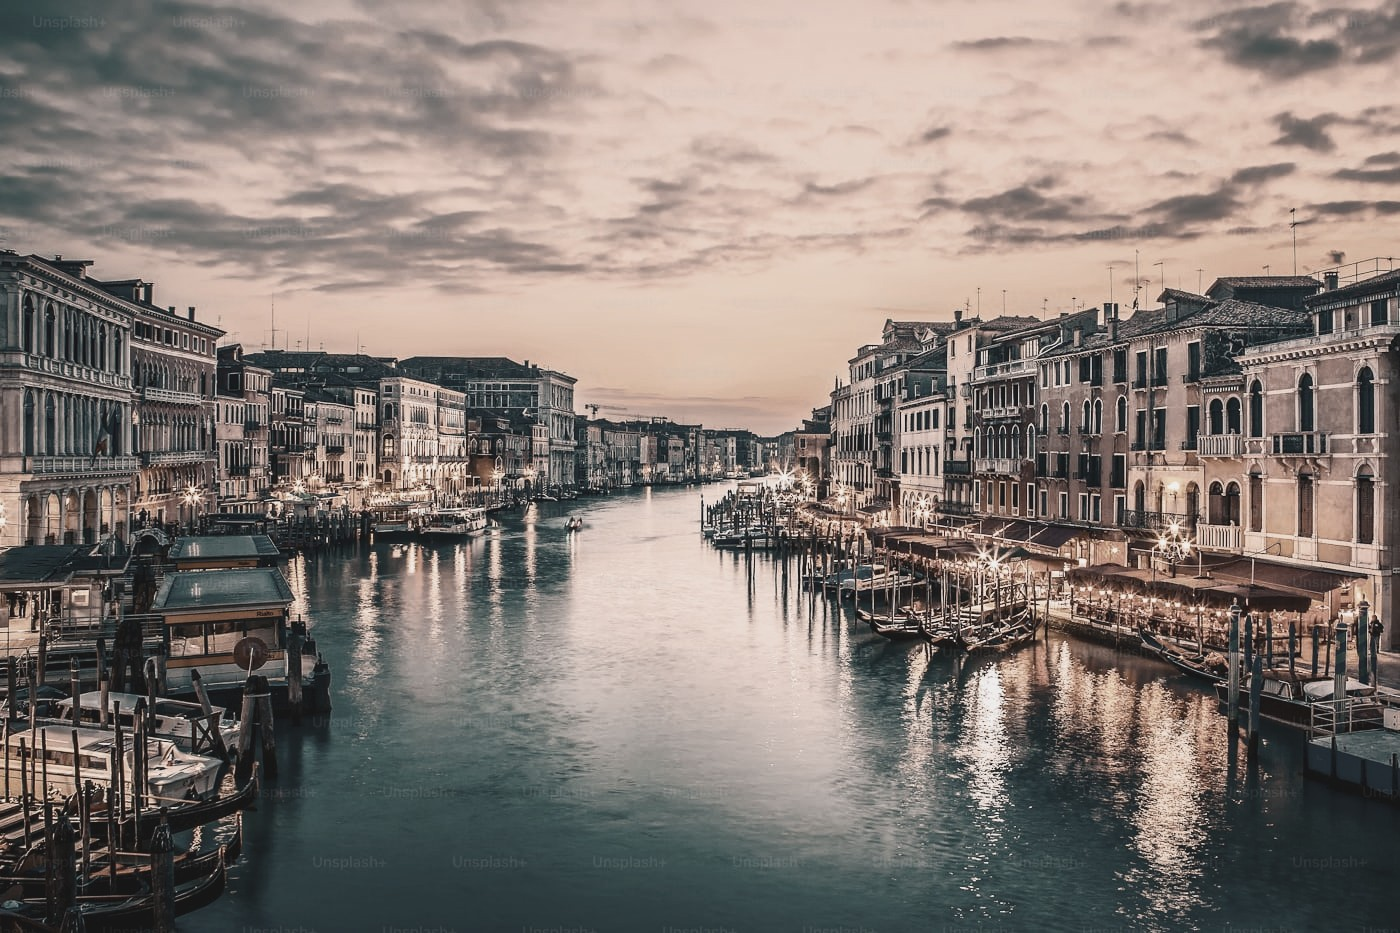
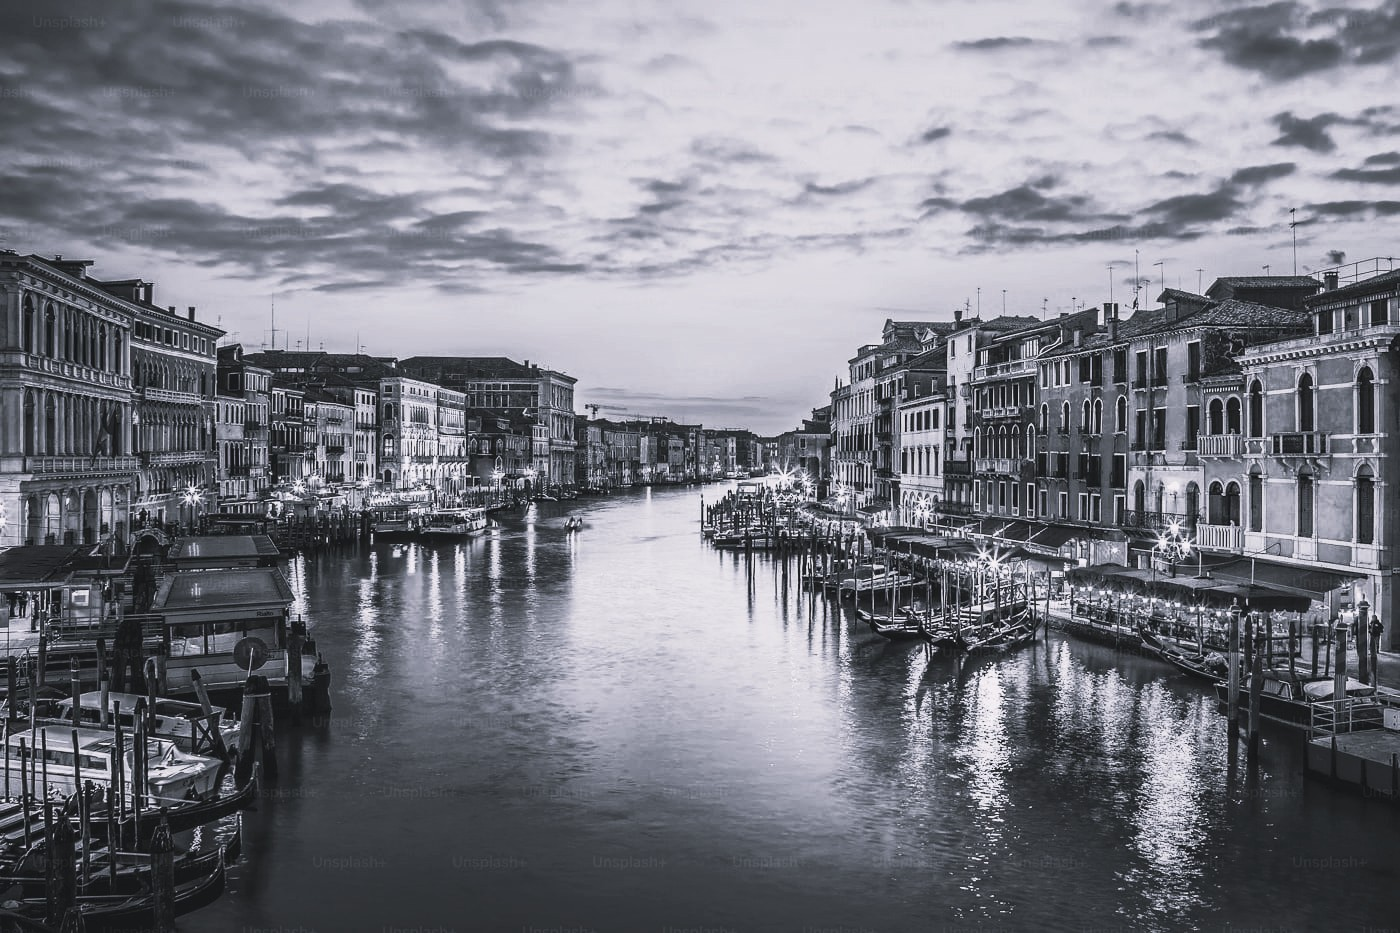
increase-gap

diff --git a/static/css/pg.css b/static/css/pg.css
@@ -420,7 +420,9 @@ gap: 0.003rem;
 }
 
 /* Left Column */
-
+.columns{
+  gap: 2rem;
+}
 .section-detail img {
     width: 60%;
 